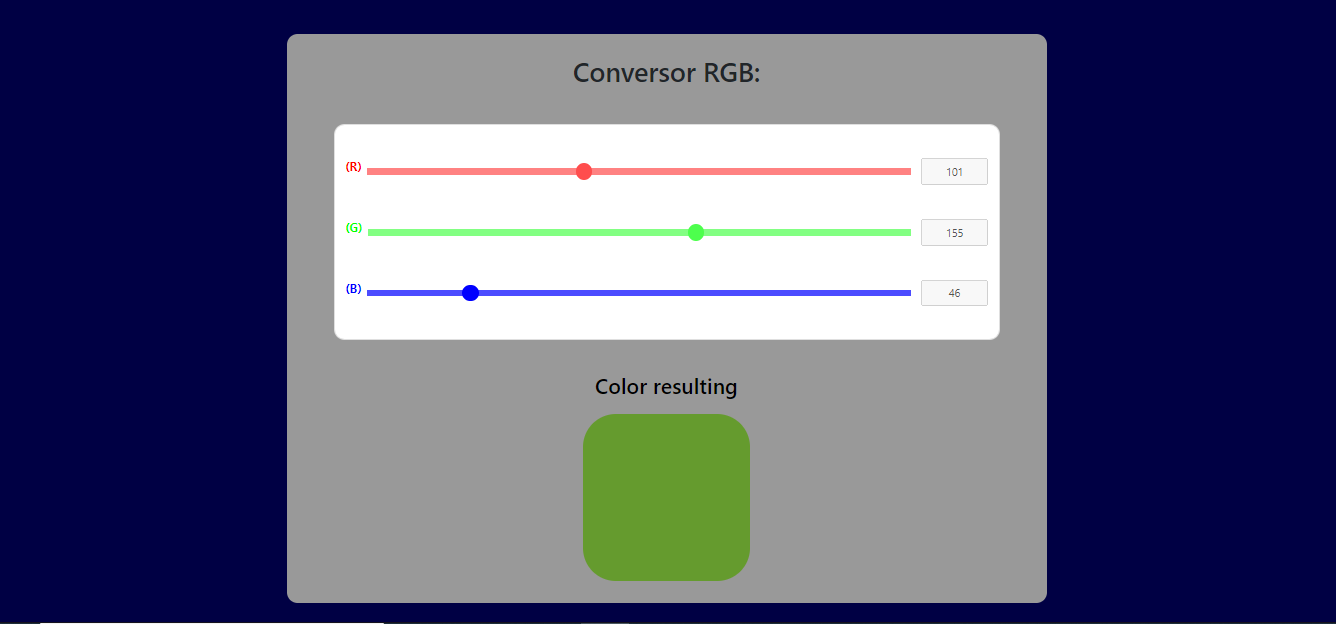
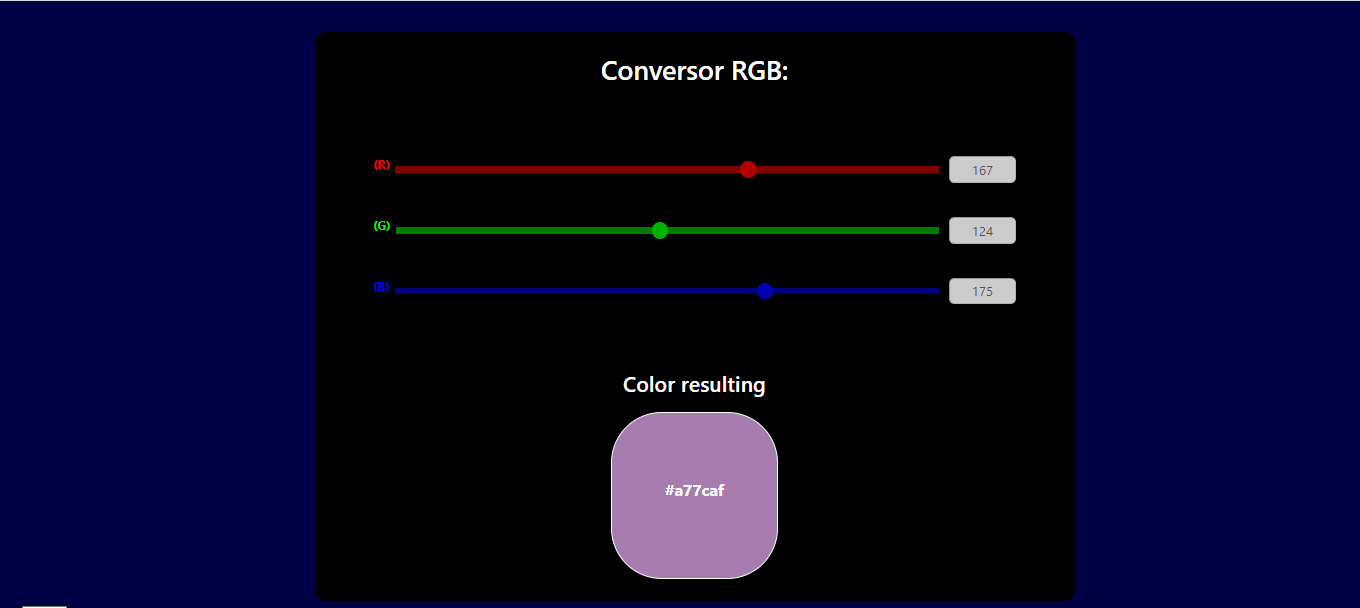
Alterações nas cores de fundo e inclusão do código em Hexadecimal

diff --git a/style.css b/style.css
@@ -1,11 +1,12 @@
 body {
   background-color: #004;
+  color: #fff;
 }
 
 .container {
   width: 95%;
 
-  background-color: #ccc;
+  background-color: #000;
   margin: 64px auto;
 
   border-radius: 16px;
@@ -14,6 +15,7 @@ body {
 h1 {
   padding: 32px;
   text-align: center;
+  color: #fff;
 }
 
 .rgb-inputs {
@@ -21,23 +23,37 @@ h1 {
   margin: 16px auto;
 
   border-radius: 16px;
+  background-color: #000;
 }
 
 .rgb-transform {
   margin-top: 32px;
-  color: #000;
+  color: #fff;
   text-align: center;
-  background-color: #ccc;
-  border-color: #ccc;
+  background-color: #000;
+  border-color: #000;
 }
+
 .rgb-result {
   width: 250px;
   height: 250px;
   margin: 16px auto;
 
   background-color: #000;
+  border: 1px solid #fff;
 
   margin-bottom: 32px;
+
+  display: flex;
+  justify-content: center;
+}
+
+.rgb-result p {
+  display: flex;
+  justify-content: center;
+  align-self: center;
+
+  font-size: 24px;
 }
 
 .red,

diff --git a/index.html b/index.html
@@ -16,7 +16,7 @@
 
   <body>
     <div class="container">
-      <h1> Conversor RGB: </h1>
+      <h1>Conversor RGB:</h1>
       <div class="row">
         <div class="col-12 inputs">
           <div class="card rgb-inputs">
@@ -97,9 +97,12 @@
       <div class="row">
         <div class="col-12">
           <div class="card rgb-transform">
-            <h2> Color resulting </h2>
+            <h2>Color resulting</h2>
+
             <div class="rgb-result">
+              <p class="rgbHex"></p>
             </div>
+          </div>
         </div>
       </div>
     </div>

diff --git a/script.js b/script.js
@@ -35,6 +35,7 @@ for (let slider of sliders) {
     console.log(radiusRGB);
     let rgbResult = redNumber + greenNumber + blueNumber;
     result.style.backgroundColor = '#' + rgbResult;
+    document.querySelector('.rgbHex').innerHTML = '#' + rgbResult;
     result.style.borderRadius = radiusRGB + '%';
   });
 }
